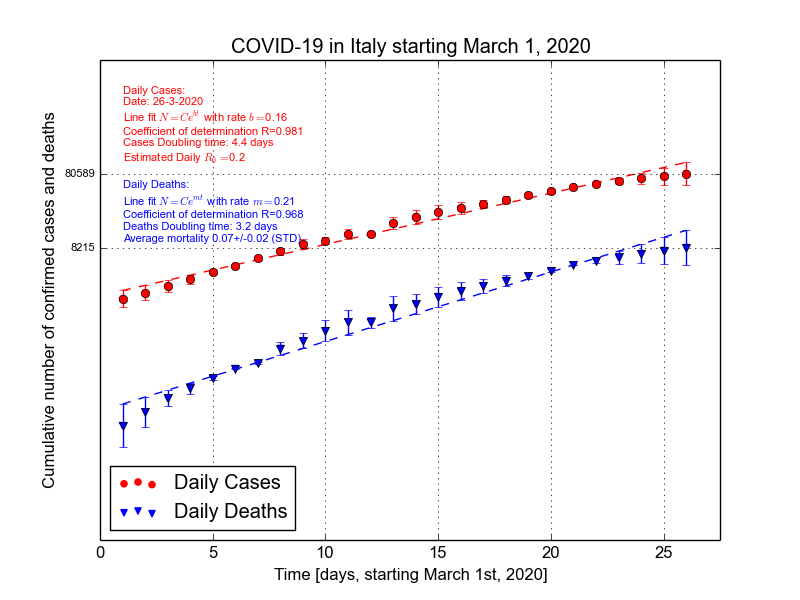
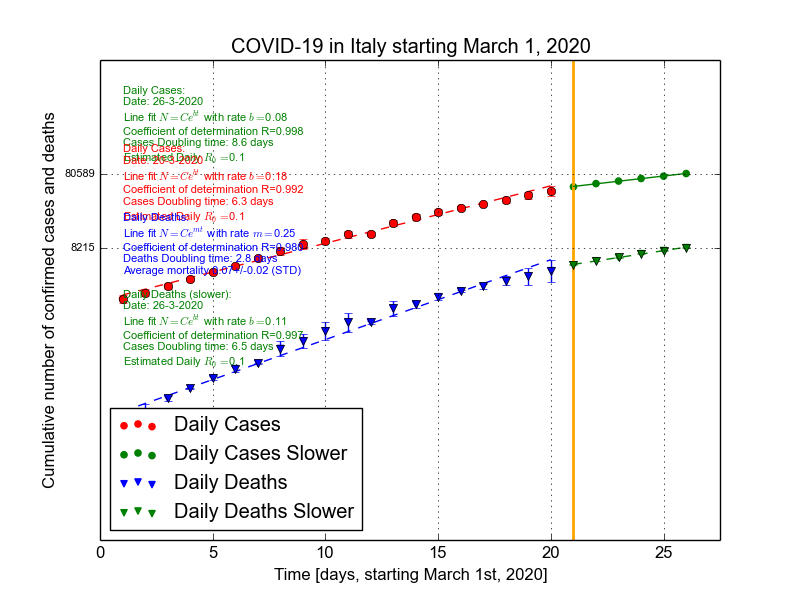
introduced slowing down deaths

diff --git a/cov_lin_models_refactored.py b/cov_lin_models_refactored.py
@@ -38,12 +38,17 @@ SLOWDOWN = {"Belgium": 13,
             "Denmark": 13, 
             "Finland": 14,
             "Ireland": 16,
+            "Italy": 21,
             "Netherlands": 13,
             "Norway": 14,
             "Poland": 16,
             "Slovakia": 21,
+            "Spain": 19,
             "Sweden": 13,
             "UK": 21}
+# same for deaths
+SLOWDOWN_DEATHS = {"Italy": 21,
+                   "Spain": 15}
 
 # countries that need their data to be summed;
 # same for US states
@@ -99,9 +104,13 @@ def get_linear_parameters(x, y):
     return poly1d_fn(x), R, y_err, slope, d_time, R0
 
 
-def get_plot_text(slope, country, R, d_time, R0, x, month):
+def get_plot_text(slope, country, R, d_time, R0, x,
+                  month, deaths_label=False):
     """Set plot title, subtitle, text."""
-    plot_text = "Daily Cases:" + "\n" + \
+    header = "Daily Cases:"
+    if deaths_label:
+        header = "Daily Deaths (slower):"
+    plot_text = header + "\n" + \
                 "Date: %s-%s-2020" % (str(int(x[-1])), month) + "\n" + \
                 "Line fit $N=Ce^{bt}$ with rate $b=$%.2f" % slope + "\n" + \
                 "Coefficient of determination R=%.3f" % R + "\n" + \
@@ -150,9 +159,12 @@ def load_daily_deaths_history():
     return list(np.loadtxt("country_data/UK_deaths_history", dtype='float'))
 
 
-def _compute_slowdown(x_cases, y_cases, country, month):
+def _compute_slowdown(x_cases, y_cases, country, month, deaths=False):
     """Get numbers for slowdown phase."""
-    slowdown_index = x_cases.index(SLOWDOWN[country])
+    if not deaths:
+        slowdown_index = x_cases.index(SLOWDOWN[country])
+    else:
+        slowdown_index = x_cases.index(SLOWDOWN_DEATHS[country])
     y_slow = y_cases[slowdown_index:]
     x_slow = x_cases[slowdown_index:]
     x_cases = x_cases[0:slowdown_index]
@@ -165,19 +177,26 @@ def _compute_slowdown(x_cases, y_cases, country, month):
     plot_text_s, plot_name_s = get_plot_text(slope_s, country,
                                              R_s, d_time_s, R0_s,
                                              x_slow,
-                                             month)
+                                             month,
+                                             deaths_label=deaths)
     return (x_cases, y_cases, x_slow, y_slow,
         poly_x_s, R_s, y_err_s, slope_s, d_time_s, R0_s,
         plot_text_s, plot_name_s)
 
 
-def make_evolution_plot(variable_pack, country):
+def make_evolution_plot(variable_pack, country, slowdown_deaths=None):
     """Make the exponential evolution plot."""
     # unpack variables
     (x_cases, y_cases, x_slow, y_slow, cases, deaths,
      x_deaths, deaths, y_deaths, poly_x, poly_x_s,
      poly_x_d, y_err, y_err_d, plot_text, plot_text_s,
      plot_text_d, plot_name, slope_d, slope) = variable_pack
+
+    if slowdown_deaths is not None:
+        (x_deaths, y_deaths, x_deaths_slow, y_deaths_slow,
+         poly_x_d_s, R_d_s, y_err_d_s,
+         slope_d_s, d_time_d_s, R0_d_s,
+         plot_text_d_s, plot_name_d_s) = slowdown_deaths
 
     # repack some data
     y_all_real = []
@@ -204,6 +223,13 @@ def make_evolution_plot(variable_pack, country):
         plt.scatter(x_deaths, y_deaths, marker='v',
                     color='b', label="Daily Deaths")
         plt.plot(x_deaths, poly_x_d, '--b')
+        if country in SLOWDOWN_DEATHS:
+            plt.scatter(x_deaths_slow, y_deaths_slow, marker='v',
+                        color='g', label="Daily Deaths Slower")
+            plt.plot(x_deaths_slow, poly_x_d_s, '--g')
+            plt.errorbar(x_deaths_slow, y_deaths_slow, yerr=y_err_d_s,
+                         fmt='v', color='g')
+
     plt.errorbar(x_cases, y_cases, yerr=y_err, fmt='o', color='r')
     if deaths:
         plt.errorbar(x_deaths, y_deaths, yerr=y_err_d, fmt='v', color='b')
@@ -219,10 +245,16 @@ def make_evolution_plot(variable_pack, country):
         plt.text(1., y_slow[-1] - 1.5, plot_text, fontsize=8, color='r')
         if deaths:
             plt.text(1., y_slow[-1] - 3.1, plot_text_d, fontsize=8, color='b')
+            if country in SLOWDOWN_DEATHS:
+                plt.text(1., y_deaths_slow[-1] - 3.7, plot_text_d_s, fontsize=8,
+                         color='g')
     else:
         plt.text(1., y_cases[-1] + 0.3, plot_text, fontsize=8, color='r')
         if deaths:
             plt.text(1., y_cases[-1] - 2.1, plot_text_d, fontsize=8, color='b')
+            if country in SLOWDOWN_DEATHS:
+                plt.text(1., y_deaths_slow[-1] - 3.3, plot_text_d_s, fontsize=8,
+                         color='g')
     plt.legend(loc="lower left")
     plt.yticks(last_tick, [np.int(y01) for y01 in last_tick_real])
     plt.tick_params(axis="y", labelsize=8)
@@ -274,7 +306,8 @@ def plot_countries(datasets, month, country, download):
         (x_cases, y_cases, x_slow, y_slow,
         poly_x_s, R_s, y_err_s, slope_s, d_time_s, R0_s,
         plot_text_s, plot_name_s) = _compute_slowdown(x_cases, y_cases,
-                                                      country, month)
+                                                      country, month,
+                                                      deaths=False)
 
     # get linear params
     poly_x, R, y_err, slope, d_time, R0 = get_linear_parameters(
@@ -302,6 +335,14 @@ def plot_countries(datasets, month, country, download):
     poly_x_d = R_d = y_err_d = slope_d = \
         d_time_d = R0_d = plot_text_d = None
     if deaths:
+        if country in SLOWDOWN_DEATHS:
+            (x_deaths, y_deaths, x_deaths_slow, y_deaths_slow,
+             poly_x_d_s, R_d_s, y_err_d_s, slope_d_s, d_time_d_s, R0_d_s,
+             plot_text_d_s, plot_name_d_s) = _compute_slowdown(x_deaths,
+                                                               y_deaths,
+                                                               country,
+                                                               month,
+                                                               deaths=True)
         (poly_x_d, R_d, y_err_d,
          slope_d, d_time_d, R0_d) = get_linear_parameters(
             x_deaths,
@@ -322,10 +363,17 @@ def plot_countries(datasets, month, country, download):
         y_err, y_err_d, plot_text, plot_text_s,
         plot_text_d, plot_name, slope_d, slope
     )
-
-    make_evolution_plot(variable_pack, country)
+    if country not in SLOWDOWN_DEATHS:
+        make_evolution_plot(variable_pack, country)
+    else:
+        slowdown_deaths = (x_deaths, y_deaths, x_deaths_slow, y_deaths_slow,
+                           poly_x_d_s, R_d_s, y_err_d_s,
+                           slope_d_s, d_time_d_s, R0_d_s,
+                           plot_text_d_s, plot_name_d_s)
+        make_evolution_plot(variable_pack, country, slowdown_deaths)
     if deaths and len(deaths) > 3.0:
-        make_simulations_plot(variable_pack, country)
+        if country not in SLOWDOWN_DEATHS:
+            make_simulations_plot(variable_pack, country)
 
     return d_time, R0
 
